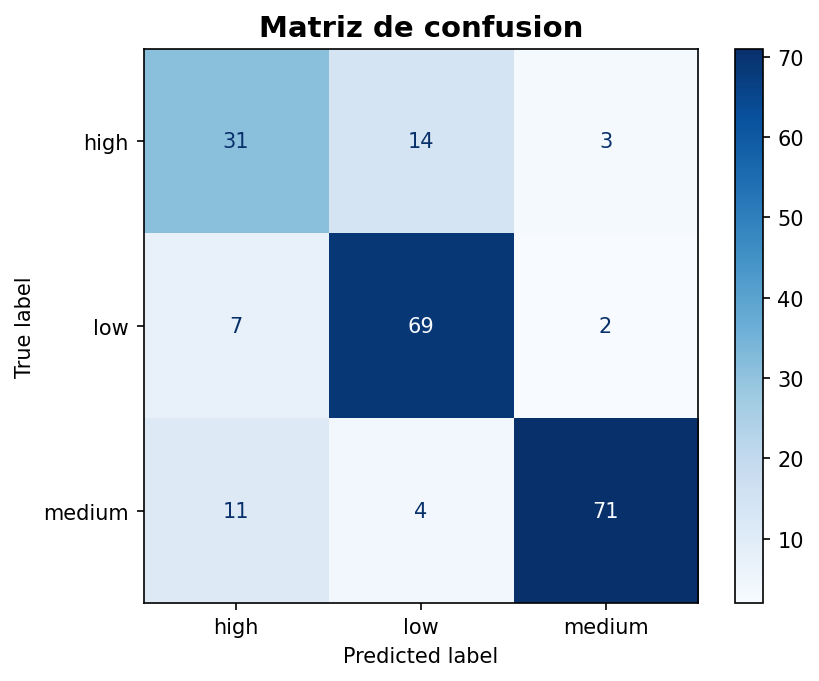
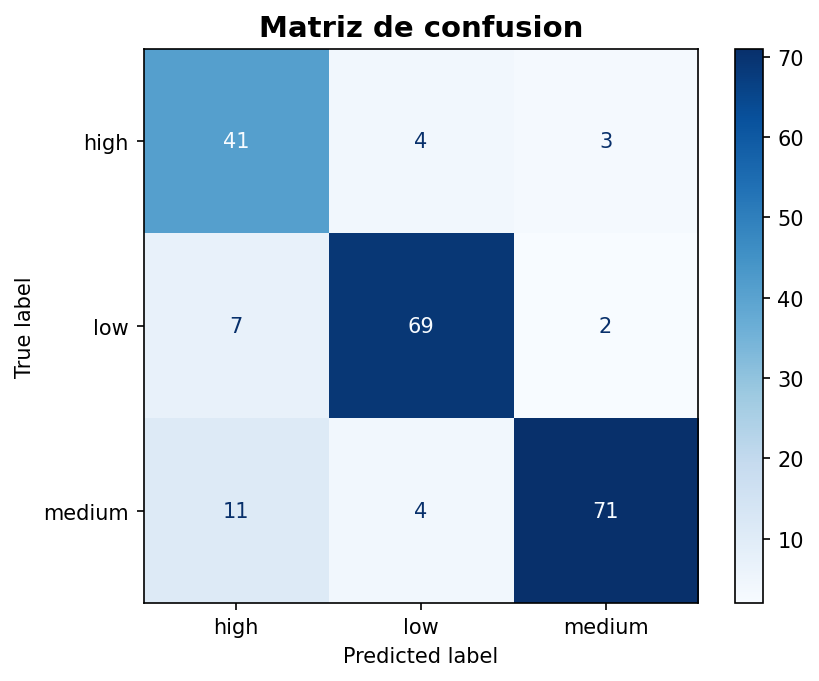
actualizacion final code

Changed region(s): [[0.1526, 0.0617, 0.641, 0.3392]]

diff --git a/proyecto_2/tables/coefficients.tex b/proyecto_2/tables/coefficients.tex
@@ -2,8 +2,8 @@
 \toprule
  & Temprature\_escalado & pH\_escalado & Taste & Odor & Fat\  & Turbidity & Colour \\
 \midrule
-high & -0.9688 & 0.2911 & 0.2944 & 1.9642 & 3.4452 & 0.0309 & 0.0829 \\
-low & 2.6199 & -0.4237 & 1.7454 & -0.0962 & -0.9904 & 1.8004 & 0.2341 \\
-medium & -1.6511 & 0.1326 & -2.0397 & -1.8681 & -2.4549 & -1.8313 & -0.3170 \\
+high & -0.8754 & 0.2595 & 0.2878 & 1.9378 & 3.3901 & 0.0162 & 0.0892 \\
+low & 2.7176 & -0.4290 & 1.8809 & 0.0061 & -0.9197 & 1.8118 & 0.2506 \\
+medium & -1.8422 & 0.1695 & -2.1687 & -1.9439 & -2.4703 & -1.8280 & -0.3398 \\
 \bottomrule
 \end{tabular}

diff --git a/proyecto_2/tables/metrics.tex b/proyecto_2/tables/metrics.tex
@@ -3,9 +3,9 @@
  & Valor \\
 Métrica &  \\
 \midrule
-Accuracy & 0.8066 \\
-Precision & 0.8140 \\
-Recall & 0.8066 \\
-F1-Score & 0.8080 \\
+Accuracy & 0.8538 \\
+Precision & 0.8660 \\
+Recall & 0.8538 \\
+F1-Score & 0.8567 \\
 \bottomrule
 \end{tabular}
